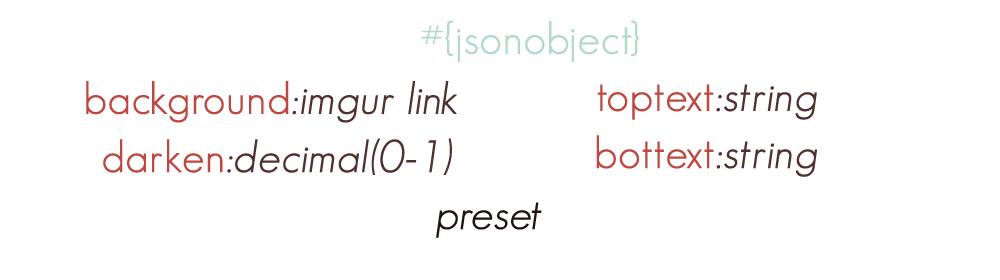
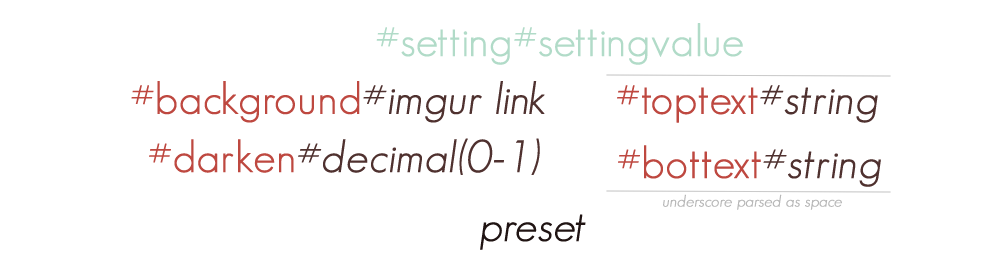
Add files via upload

diff --git a/main.js b/main.js
@@ -24,25 +24,58 @@ function customise()
 {
     var url=document.URL;
 
-    var customisations=url.split("#")[1];
+    var customisations=url.split("#");
 
-    customisations=customisations.replace(/'/g,'"');
+    customisations=parseUrl(customisations);
 
-    console.log(customisations);
-
-    try
-    {
-        customisations=JSON.parse(customisations);
-    }
-
-    catch (SyntaxError)
+    if (!customisations)
     {
         return false;
     }
 
-
     return applyCustomisations(customisations);
+}
 
+function parseUrl(urlArray)
+{
+    if (urlArray.length<3)
+    {
+        return false;
+    }
+
+    var c={};
+
+    for (x=0;x<urlArray.length;x++)
+    {
+        console.log(urlArray[x+1]);
+
+        if (urlArray[x]=="background")
+        {
+            c.background=urlArray[x+1];
+        }
+
+        else if (urlArray[x]=="toptext")
+        {
+            c.toptext=urlArray[x+1].replace(/_/g," ");
+        }
+        
+        else if (urlArray[x]=="bottext")
+        {
+            c.bottext=urlArray[x+1].replace(/_/g," ");
+        }
+
+        else if (urlArray[x]=="darken")
+        {
+            c.darken=urlArray[x+1];
+        }
+
+        else if (urlArray[x]=="preset")
+        {
+            c.preset="presets/"+urlArray[x+1];
+        }
+    }
+
+    return c;
 }
 
 function applyCustomisations(customisations)

diff --git a/index.html b/index.html
@@ -24,7 +24,7 @@
     </div>
 
       <div id="accomplishment">
-        <img src="review.png">
+        <img>
       </div>
 
       <div id="milestone">
